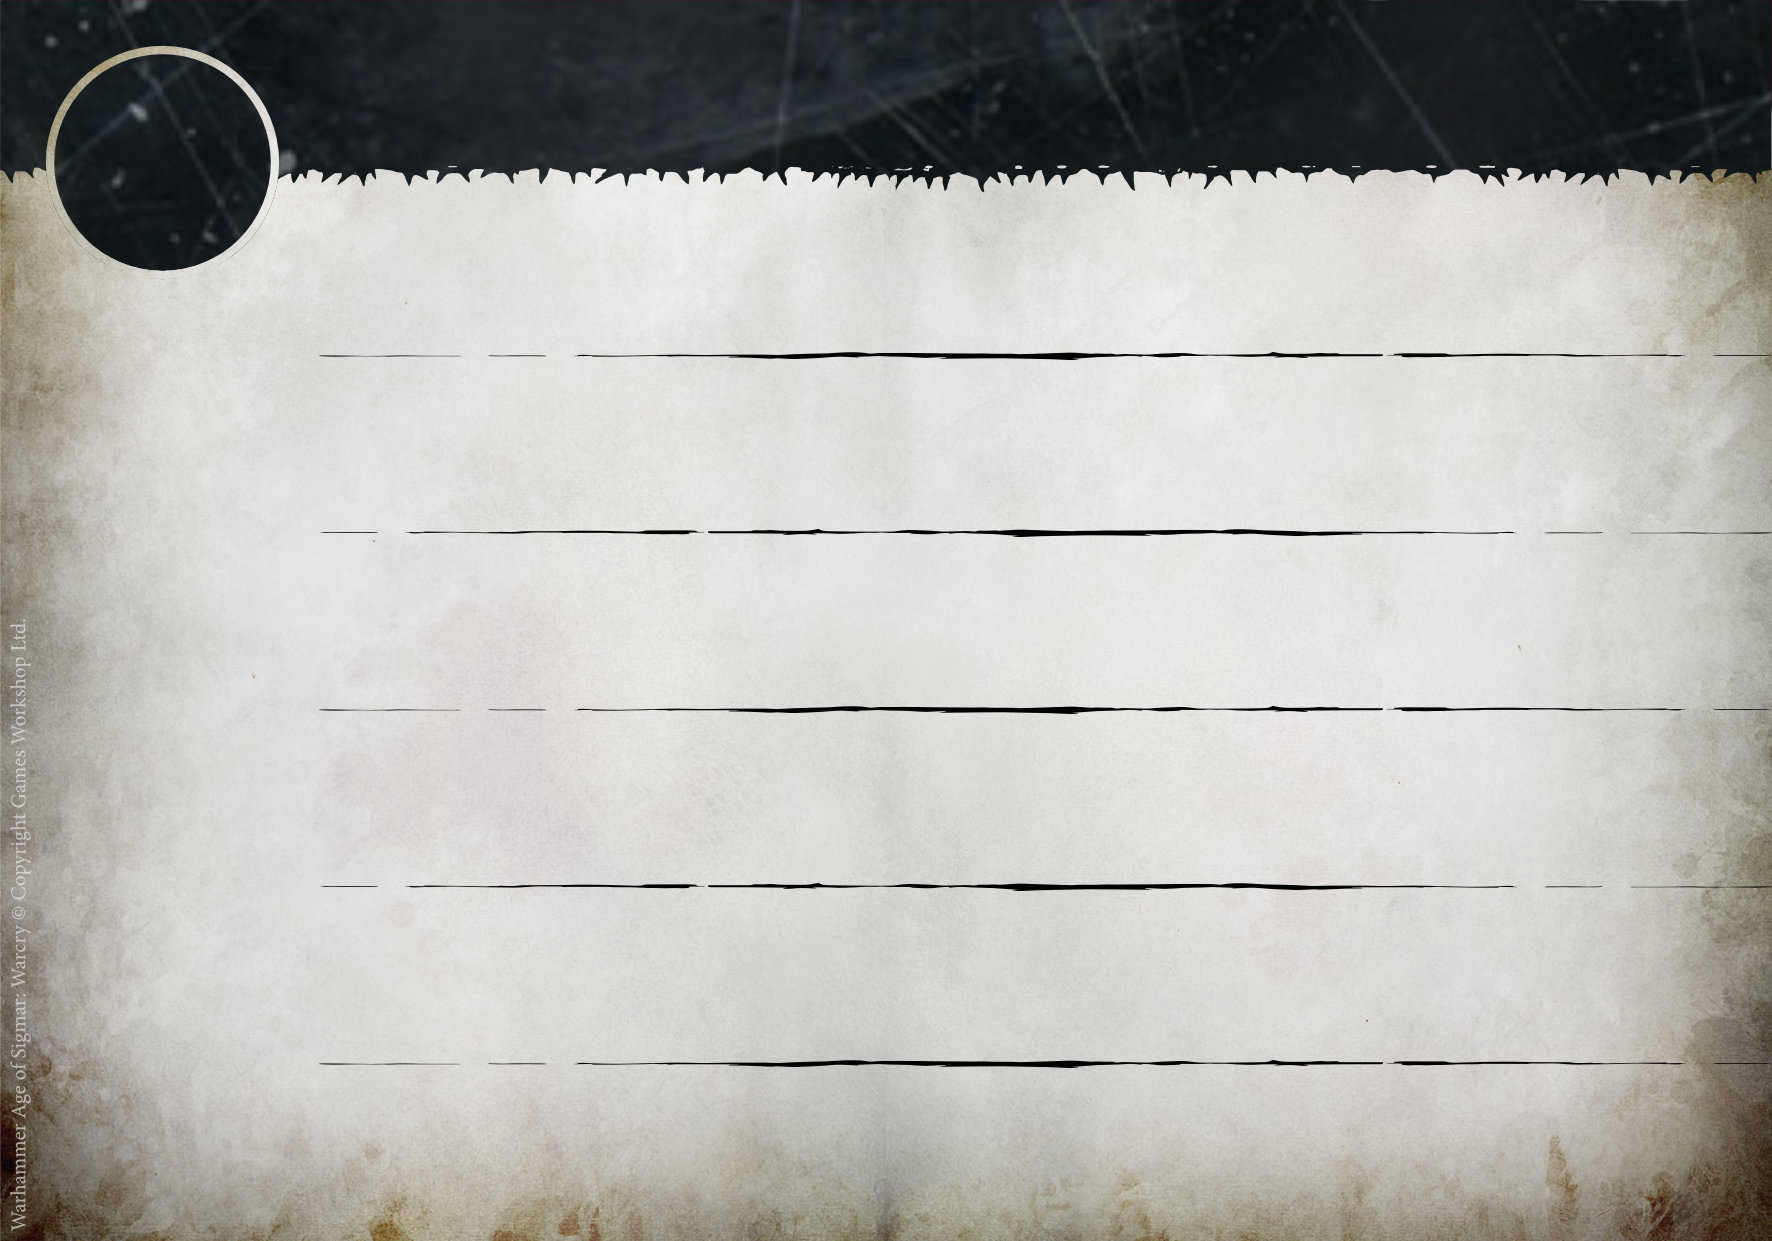
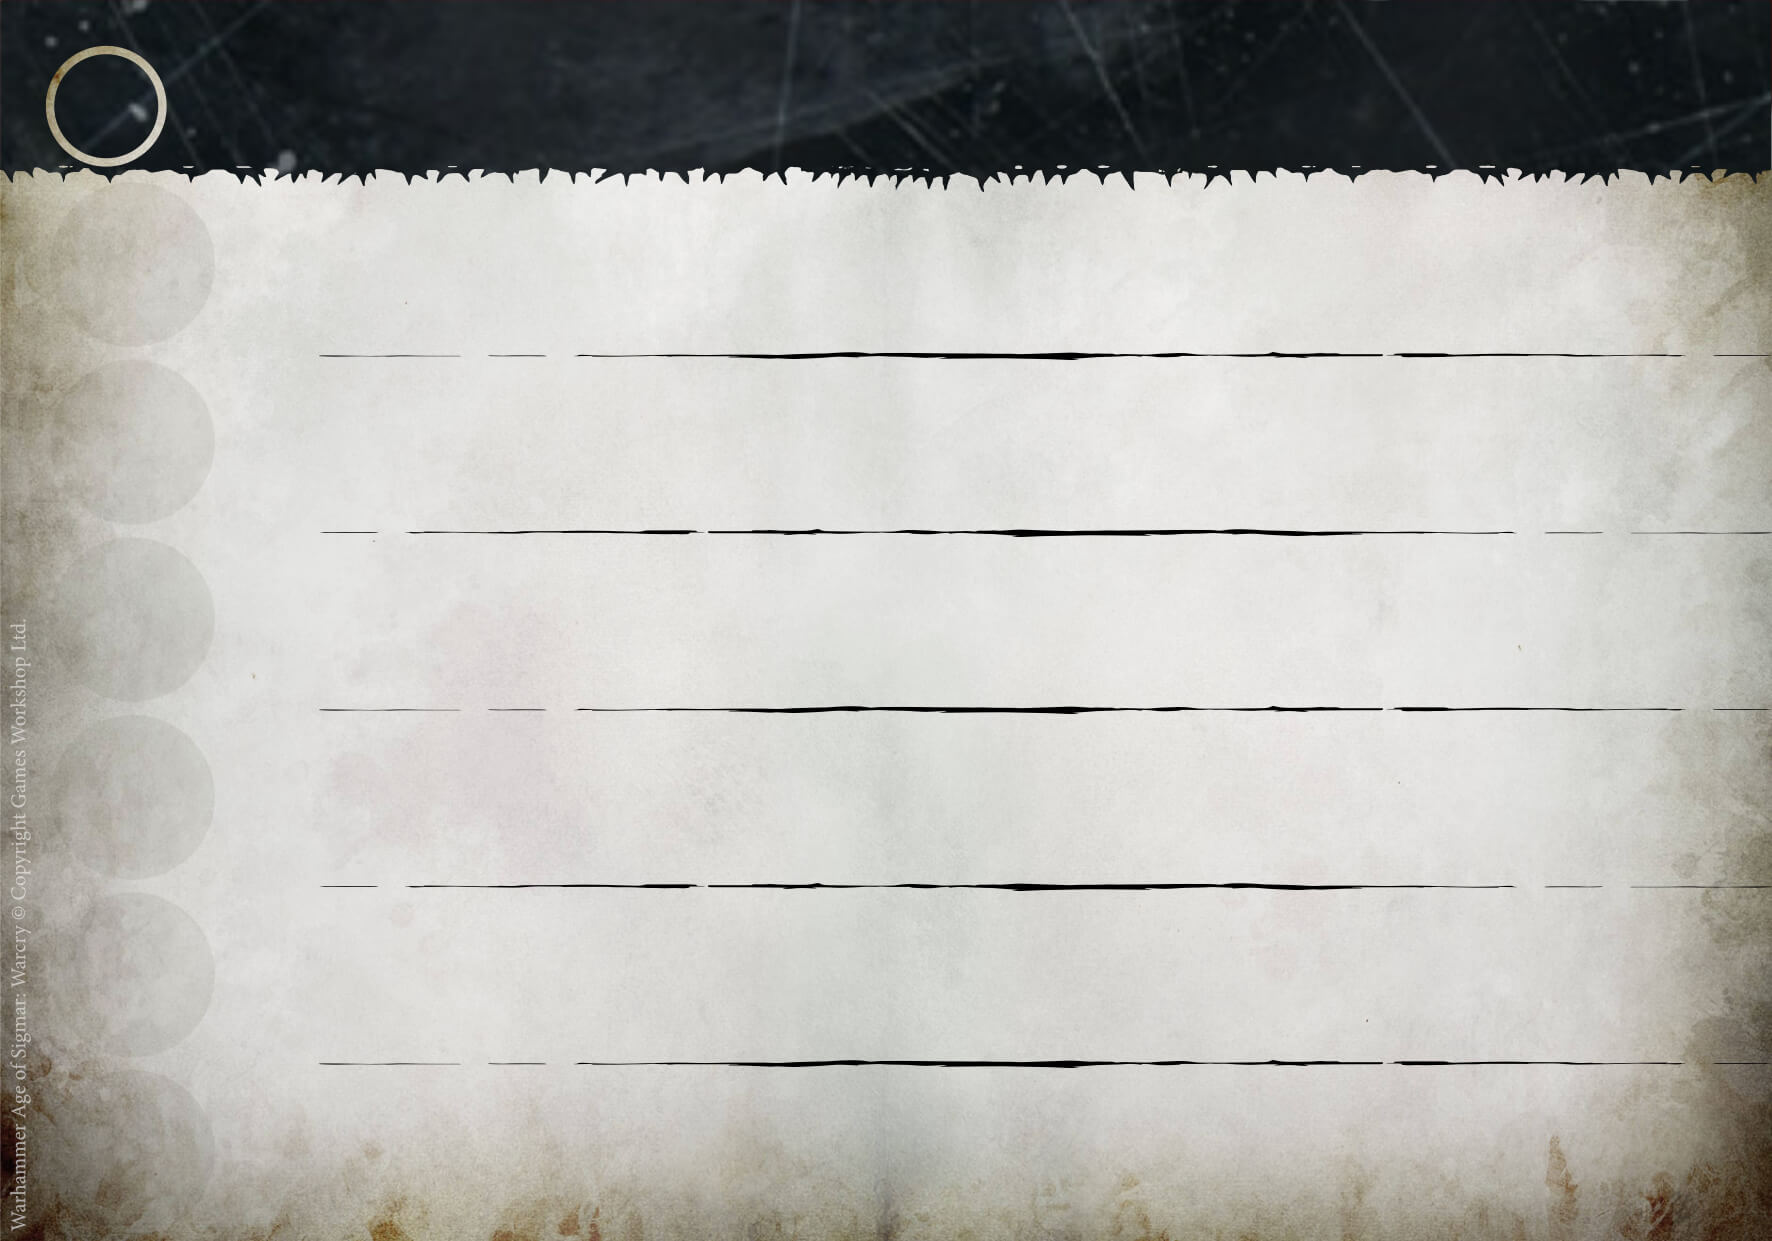
smaller faction runemark on ability card

Changed region(s): [[0.0, 0.0306, 0.1552, 0.2143]]

diff --git a/assets/js/abilities.js b/assets/js/abilities.js
@@ -618,7 +618,7 @@ function readControls()
 }
 
 function drawFactionRunemark(image) {
-    drawImageSrc({x: 67.5, y: 67.5}, {x: 190, y: 190}, image);
+    drawImageSrc({x: 57.5, y: 57.5}, {x: 100, y: 100}, image);
 
     if (document.getElementById('ability1-toggle').checked) {
         var positions = {x: 50, y: 185},
